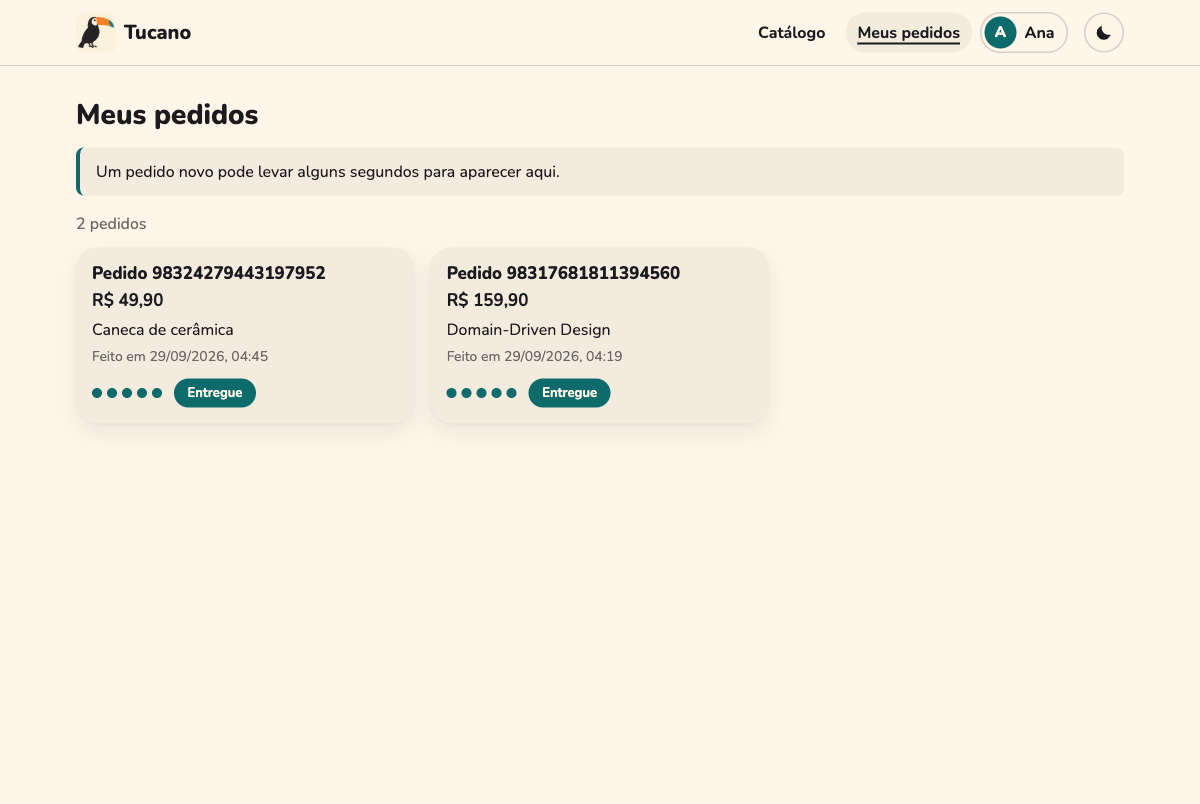
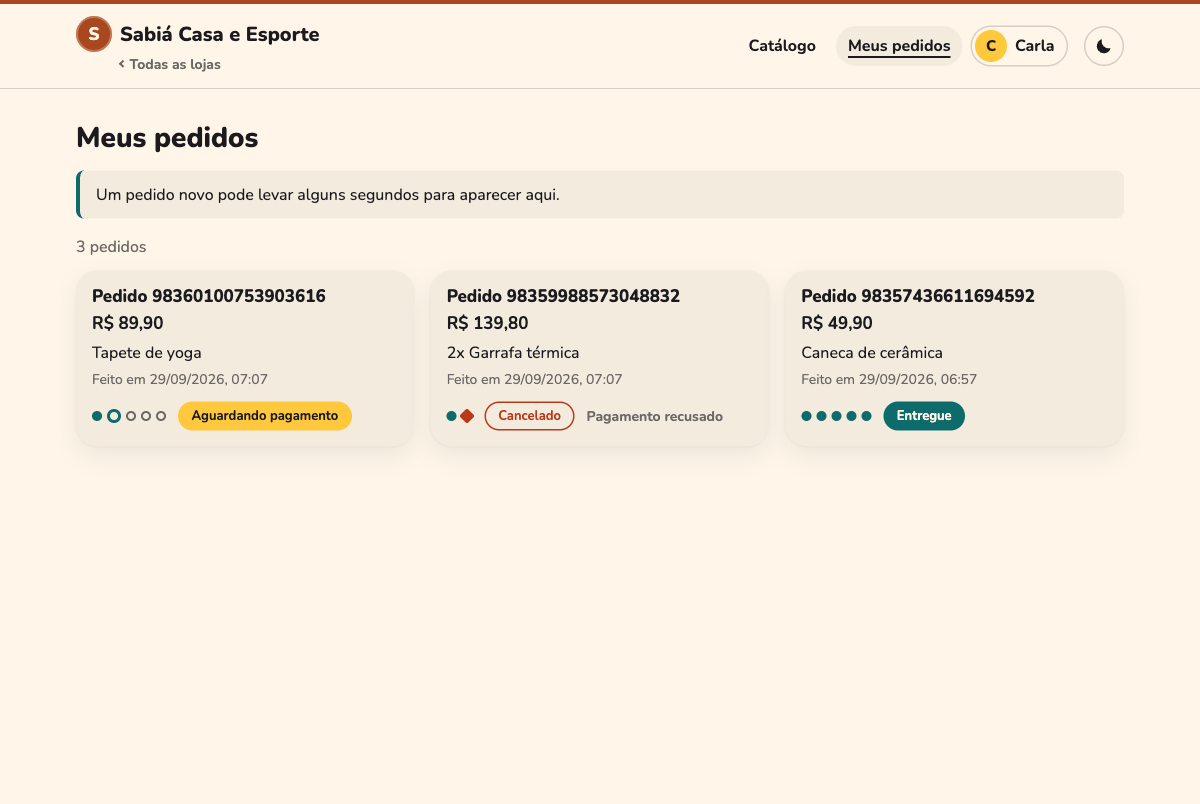
docs: the stores in the readme screens and the chaos experiments

diff --git a/chaos/README.md b/chaos/README.md
@@ -31,7 +31,7 @@ flowchart LR
 3. **O estado estável de novo**, com a falha ainda ativa. É aqui que o experimento dá o veredito: a hipótese se manteve ou o sistema se desviou.
 4. **Os rollbacks** tiram a falha e devolvem o estado estável, não só a configuração de antes. O `psp-slow` espera 25 s depois de tirar a latência: o circuito que ele abriu fica aberto 20 s depois que o PSP volta, e o experimento seguinte encontraria o sistema ainda se recuperando. Foi o `lost-psp-webhooks` que acusou isso, recusando começar com o pagamento ainda em `503`.
 
-As sondas compram na loja do jeito que a web compra: abrem as telas do BFF e seguem os links e as ações que vêm nelas, sem montar nenhum endereço. Elas pagam com o cartão de teste recusado, então cada pedido cancela e devolve o estoque, e dá para rodar os experimentos o dia inteiro sem esvaziar prateleira nenhuma. As exceções são os dois experimentos do rastreio, que precisam de uma encomenda coletada: cada execução compra e entrega uma caneca, de um estoque de 200.
+As sondas compram na Sabiá, a loja que vende a caneca, do jeito que a web compra: abrem as telas do BFF e seguem os links e as ações que vêm nelas, sem montar nenhum endereço além da entrada da loja e do checkout. Cada sonda guarda, com o pedido que acompanha, a sessão que o comprou, porque só ela o abre ([ADR 0030](../docs/adr/0030-each-customer-sees-only-its-orders.md)). Elas pagam com o cartão de teste recusado, então cada pedido cancela e devolve o estoque, e dá para rodar os experimentos o dia inteiro sem esvaziar prateleira nenhuma. As exceções são os dois experimentos do rastreio, que precisam de uma encomenda coletada: cada execução compra e entrega uma caneca, de um estoque de 200.
 
 ## Os experimentos
 
@@ -45,6 +45,7 @@ As sondas compram na loja do jeito que a web compra: abrem as telas do BFF e seg
 | [`tracking-without-its-copy`](experiments/tracking-without-its-copy.json) | o DynamoDB, onde mora a cópia do rastreio, some (com o S3 e o SQS do Floci) | a página de rastreio responde em até 1 s, com a entrega ou com `503` e `Retry-After` | a primeira execução pegou a página pendurada até o BFF desistir: `503` em 5,05 s. A logistics levava 12,4 s e respondia `500`, porque o SDK repetia a leitura com espera entre as tentativas. Depois da correção, a leitura tem uma tentativa só, de até 800 ms, e a página recusa em 0,06 s, com "tente em 5 s" |
 | [`tracking-without-the-timeline`](experiments/tracking-without-the-timeline.json) | o MongoDB, onde mora a linha do tempo interna das remessas, some | uma encomenda comprada durante a queda chega a entregue na página pública, com todos os passos, em até 90 s | a primeira execução pegou uma cascata: o projetor escrevia no MongoDB antes do DynamoDB, esgotava as tentativas e mandava a jornada inteira para a DLQ, e a página ficou sem nenhum passo. Depois da correção ([ADR 0027](../docs/adr/0027-one-consumer-group-per-read-model.md)), cada read model lê num grupo próprio, e a página chegou a entregue em 14,6 s, com o MongoDB ainda fora |
 | [`kafka-out-and-back`](experiments/kafka-out-and-back.json) | o Kafka some por 30 s, e uma caneca é comprada e paga no meio da queda | depois que o Kafka volta, a encomenda chega a entregue na página pública em até 90 s, com todos os passos | o `order.paid` esperou na outbox. Com o Kafka de volta, a remessa nasceu em 8,6 s, o pedido ganhou o link de rastreio em 14,7 s e a página chegou a entregue em 18,8 s, contra 8,3 s e 14,5 s sem falha nenhuma. A volta ainda entregou o `order.paid` duas vezes, e a inbox da logistics descartou a repetição |
+| [`a-store-in-a-rush`](experiments/a-store-in-a-rush.json) | quarenta compradores abrem o catálogo da Arara por 15 s, e cada um espera o `Retry-After` quando ouve um 429 | o catálogo da Sabiá, a loja vizinha, responde com 200, 95 vezes em 100 em até 0,3 s | sem o limite por loja no Kong, a Arara atendeu 3.756 requests e o p95 da Sabiá foi a 0,40 s: desviou. Com o limite de 20 por segundo por loja ([ADR 0032](../docs/adr/0032-the-edge-per-store-limits-and-its-single-point.md)), a Arara atendeu uns 330 e recusou uns 590, e o p95 da Sabiá ficou entre 0,07 e 0,13 s, em três execuções. Numa rodada, a hipótese já falhou antes da falha, e o Chaos Toolkit terminou dizendo `completed`: foi assim que achei o furo do veredito, que agora vem do diário |
 | [`lost-psp-webhooks`](experiments/lost-psp-webhooks.json) | o PSP cobra, mas nenhum webhook sai | todo pagamento chega a um desfecho em até 100 s, com ou sem webhook | com webhook, o pedido chegou ao desfecho em 2,1 s; sem nenhum, a conciliação o trouxe em 62,4 s, logo depois do silêncio de 60 s que ela espera antes de perguntar ao PSP |
 
 Cada número vem de uma execução de verdade contra a stack local. Eles mudam de máquina para máquina; a hipótese não. Os tempos de entrega da tabela foram medidos antes de a frota própria ganhar o trajeto de 20 s até a porta, em que o entregador aparece ao vivo ([ADR 0028](../docs/adr/0028-live-delivery-by-tracking-code.md)). Com ele, a encomenda chega a entregue uns 20 s mais tarde: 33,0 s no `tracking-without-the-timeline` e 37,2 s depois da volta do Kafka no `kafka-out-and-back`, ainda dentro dos 90 s das hipóteses.

diff --git a/README.md b/README.md
@@ -37,14 +37,16 @@ Porque cada escolha tem um porquê escrito, com o ganho e o custo, num [ADR](doc
 
 O [guia](docs/guia/README.md) conta a história inteira como um passeio, em capítulos que cabem numa leitura de café.
 
-## A loja
+## As lojas
 
 | | |
 |---|---|
-| ![A home da loja, com o tucano pulando a pedra que falta no rio e o botão Ver o catálogo](docs/assets/telas/loja.png) | ![O checkout com quatro erros de validação listados num resumo e mostrados ao lado de cada campo](docs/assets/telas/checkout.png) |
-| ![Um pedido a caminho: o selo A caminho, a frase Seu pedido saiu para entrega com a Tucano Express, as cinco etapas com três concluídas, e o cartão Ao vivo com o entregador a 2,8 km](docs/assets/telas/pedido.png) | ![A página de rastreio, com a transportadora, o destino e a linha do tempo da entrega](docs/assets/telas/rastreio.png) |
-| ![O cartão Ao vivo da página de rastreio: um mapa pequeno com o rastro curvo do entregador e a frase O entregador está a 1,6 km](docs/assets/telas/ao-vivo.png) | Enquanto a encomenda sai com a frota própria, a página de rastreio mostra o entregador chegando: o aparelho dele informa a posição a cada segundo, e o tracking a empurra por WebSocket. Sem o WebSocket, a página avisa e segue se atualizando sozinha. |
-| ![Meus pedidos da Ana: dois pedidos entregues, cada um com número, total, item, data, os cinco pontos do progresso e o selo Entregue](docs/assets/telas/meus-pedidos.png) | ![Quem está comprando: os perfis Ana e Bruno, com Bruno como perfil atual, o botão Comprar como Ana e o formulário de perfil novo](docs/assets/telas/perfis.png) |
+| ![A página da Tucano: o tucano pulando as pedras do rio e as três lojas, Arara Livros em azul, Bem-te-vi Eletrônicos em amarelo e Sabiá Casa e Esporte em ferrugem, cada uma com o botão Entrar na loja](docs/assets/telas/lojas.png) | ![A entrada da Sabiá: o cabeçalho com o monograma S e a faixa cor de ferrugem, a frase da loja, o botão Ver o catálogo e a busca por código de rastreio](docs/assets/telas/loja-sabia.png) |
+| ![Um pedido da Sabiá a caminho: o selo A caminho, a frase Seu pedido saiu para entrega com a Tucano Express, as cinco etapas com três concluídas, e o cartão Ao vivo com o entregador a 3,7 km](docs/assets/telas/pedido.png) | ![Meus pedidos da Carla na Sabiá: um tapete aguardando pagamento, duas garrafas com o pagamento recusado e uma caneca entregue, cada um com o progresso em pontos e o selo do estado](docs/assets/telas/meus-pedidos.png) |
+| ![A página de rastreio na Sabiá, com a transportadora, o destino e a linha do tempo da entrega](docs/assets/telas/rastreio.png) | ![Quem está comprando: os perfis Ana e Bruno, com Bruno como perfil atual, o botão Comprar como Ana e o formulário de perfil novo](docs/assets/telas/perfis.png) |
+| ![O cartão Ao vivo da página de rastreio: um mapa pequeno com o rastro curvo do entregador e a frase O entregador está a 1,6 km](docs/assets/telas/ao-vivo.png) | ![O checkout com quatro erros de validação listados num resumo e mostrados ao lado de cada campo](docs/assets/telas/checkout.png) |
+
+Cada loja é um tenant da plataforma: tem a sua vitrine, a sua paleta e os seus pedidos, e uma loja nunca vê os dados de outra ([ADR 0031](docs/adr/0031-a-store-is-a-tenant.md)). Elas dividem o que é da Tucano, os centros de distribuição, o pagamento e a entrega, e cada uma tem o seu limite de requests no Kong, para uma promoção numa loja não deixar a vizinha lenta ([ADR 0032](docs/adr/0032-the-edge-per-store-limits-and-its-single-point.md)).
 
 A tela do pedido se atualiza sozinha enquanto algo está para acontecer, e junta num histórico só o que o commerce e a logística sabem: pedido feito, pagamento aprovado, etiqueta pronta, coleta, saída para entrega, entrega. Com o cartão de teste recusado, ela termina em "Cancelado", com a etapa "Pagamento recusado" parada em vermelho, e diz por quê. Sem a logística, o pedido abre do mesmo jeito, com o que o commerce sabe e um aviso.
 
